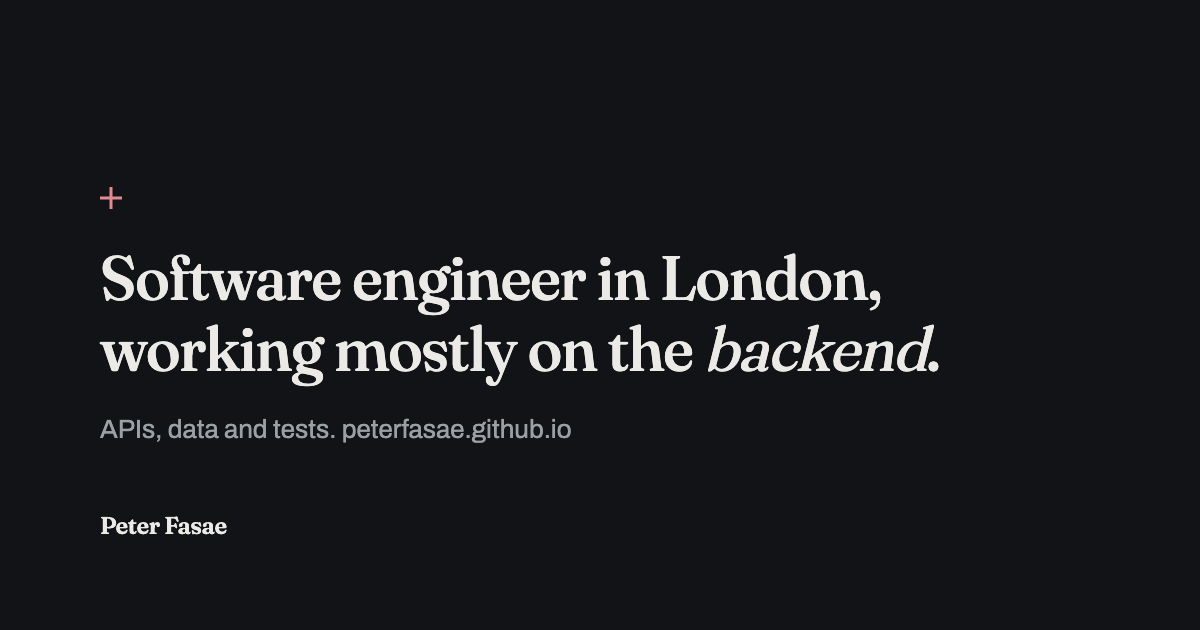
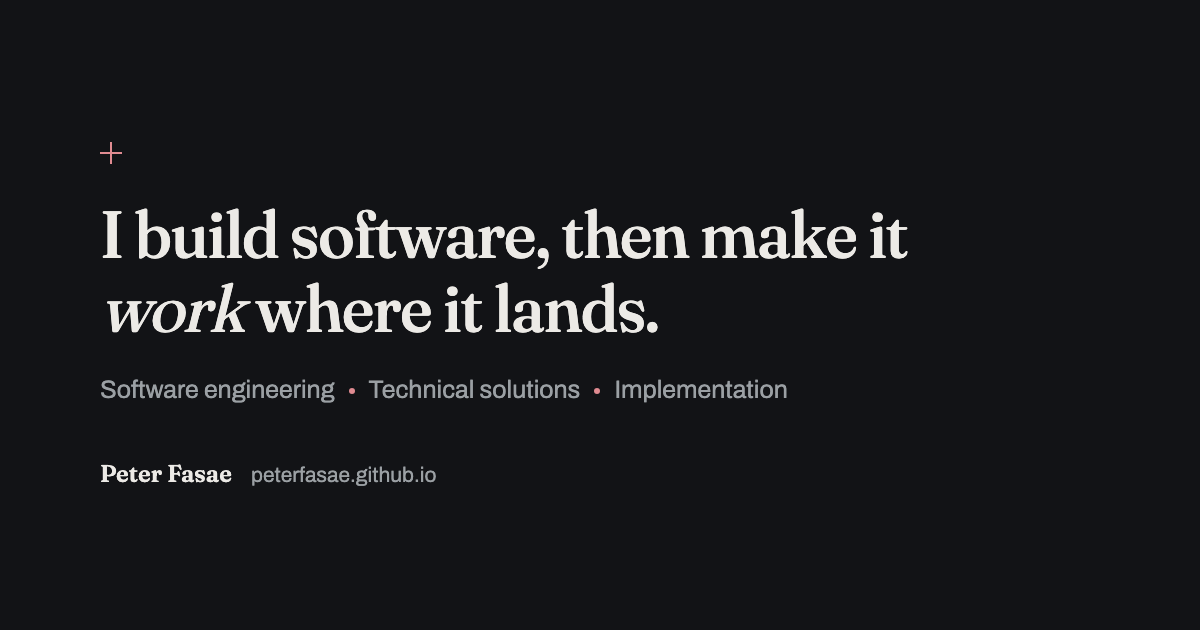
Prepare the site for search and sharing
- sitemap.xml lists the two pages, and robots.txt allows everything and
  points to the sitemap. Neither existed before.
- The homepage meta description drops from about 310 characters to
  158, so search results show it whole.
- The social preview image still said "working mostly on the backend".
  It now carries the current headline and the three areas of work, in
  the site's own type and colours, at 1200 by 630.
- Its URL gains ?v=2 so sites that cached the old image fetch the new
  one, and both pages get og:image:alt.

diff --git a/index.html b/index.html
@@ -5,7 +5,7 @@
 <meta name="viewport" content="width=device-width, initial-scale=1">
 
 <title>Peter Fasae — Software engineering, technical solutions and implementation, London</title>
-<meta name="description" content="Peter Fasae works across software engineering, technical solutions and implementation in London: React, TypeScript, Node and AWS, plus integration, systems support and documentation. Currently building Clarity, a note-taking system for people with ADHD with an explicit privacy boundary around third-party AI.">
+<meta name="description" content="Peter Fasae, software engineer in London: React, TypeScript, Node and AWS, plus technical solutions, implementation and application support. Building Clarity.">
 <link rel="canonical" href="https://peterfasae.github.io/">
 <meta name="author" content="Peter Fasae">
 
@@ -13,7 +13,8 @@
 <meta property="og:title" content="Peter Fasae — Software engineering, technical solutions and implementation">
 <meta property="og:description" content="Software engineer in London. I build with React, TypeScript, Node and AWS, and I make what I build work alongside the systems and people already there.">
 <meta property="og:url" content="https://peterfasae.github.io/">
-<meta property="og:image" content="https://peterfasae.github.io/assets/img/preview.png">
+<meta property="og:image" content="https://peterfasae.github.io/assets/img/preview.png?v=2">
+<meta property="og:image:alt" content="Peter Fasae: I build software, then make it work where it lands. Software engineering, technical solutions, implementation.">
 <meta property="og:image:width" content="1200">
 <meta property="og:image:height" content="630">
 <meta name="twitter:card" content="summary_large_image">

diff --git a/clarity.html b/clarity.html
@@ -13,7 +13,8 @@
 <meta property="og:title" content="Clarity — proving a note never left">
 <meta property="og:description" content="Designing a privacy boundary around a third-party AI service, and building a test that fails if a single request escapes.">
 <meta property="og:url" content="https://peterfasae.github.io/clarity.html">
-<meta property="og:image" content="https://peterfasae.github.io/assets/img/preview.png">
+<meta property="og:image" content="https://peterfasae.github.io/assets/img/preview.png?v=2">
+<meta property="og:image:alt" content="Peter Fasae: I build software, then make it work where it lands. Software engineering, technical solutions, implementation.">
 <meta property="og:image:width" content="1200">
 <meta property="og:image:height" content="630">
 <meta name="twitter:card" content="summary_large_image">
